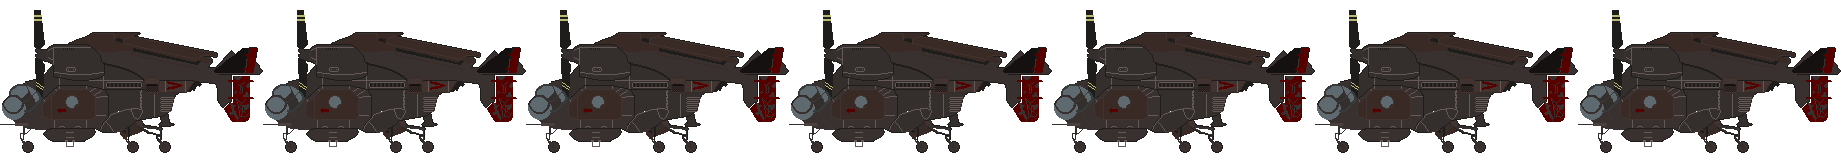
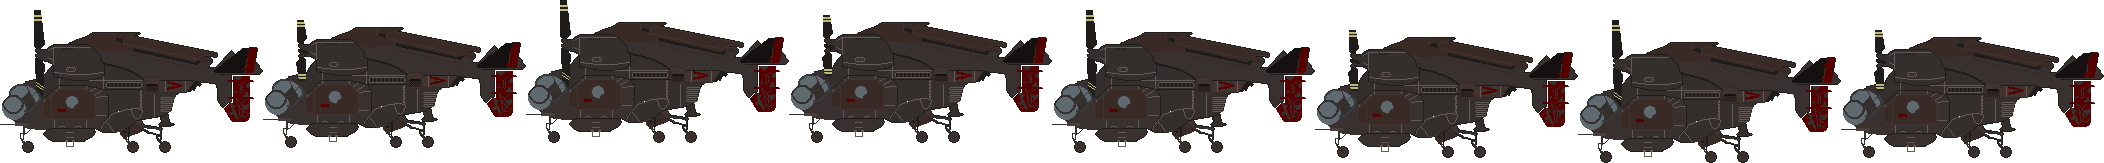
good progress pick up sunday

diff --git a/src/scenes/Play.js b/src/scenes/Play.js
@@ -5,6 +5,7 @@ class Play extends Phaser.Scene {
     preload() {
         this.load.spritesheet('miniNukeF', './assets/miniNuke.png', {frameWidth: 20, frameHeight: 43, startFrame: 0, endFrame: 3});
         this.load.image('miniNukeG', './assets/miniNukeGrounded.png');
+        this.load.spritesheet('vertibird', './assets/vertibird.png', {frameWidth: 263, frameHeight: 163, startFrame: 0, endFrame: 8});
         this.load.image('spaceship', './assets/spaceship.png');
         this.load.image('starfield', './assets/starfield.png');
         this.load.image('interceptor', './assets/interceptor.png');
@@ -22,6 +23,11 @@ class Play extends Phaser.Scene {
             frames: this.anims.generateFrameNumbers('miniNukeF', {start: 1, end: 3, first: 1}),
             frameRate: 10
         });
+        this.anims.create({
+            key: 'zoom',
+            frames: this.anims.generateFrameNumbers('vertibird', {start: 0, end: 8, first: 0}),
+            frameRate: 10
+        });
         this.anims.create ({
             key: 'explode',
             frames: this.anims.generateFrameNumbers('explosion', {start: 0, end: 9, first: 0}),
@@ -29,10 +35,10 @@ class Play extends Phaser.Scene {
         });
 
         this.miniNuke = new Rocket(this, game.config.width/2, game.config.height - borderUISize - borderPadding, 'miniNukeG').setOrigin(0.5,0);
-        this.ship01 = new Spaceship(this, game.config.width + borderUISize*6, borderUISize*4, 'spaceship', 0, 30, 1).setOrigin(0,0);
-        this.ship02 = new Spaceship(this, game.config.width + borderUISize*3, borderUISize*5 + borderPadding*2, 'spaceship', 0, 20, 1).setOrigin(0,0);
-        this.ship03 = new Spaceship(this, game.config.width, borderUISize*6 + borderPadding*4, 'spaceship', 0, 10, 1).setOrigin(0,0);
-        this.ship04 = new Spaceship(this, game.config.width, borderUISize*7 + borderPadding*5, 'interceptor', 0, 40, 2).setOrigin(0,0);
+        this.ship01 = new Spaceship(this, game.config.width + borderUISize*6, borderUISize*4, 'vertibird', 0, 30, 1).setOrigin(0,0);
+        this.ship02 = new Spaceship(this, game.config.width + borderUISize*3, borderUISize*5 + borderPadding*2, 'vertibird', 0, 20, 1).setOrigin(0,0);
+        this.ship03 = new Spaceship(this, game.config.width, borderUISize*6 + borderPadding*4, 'vertibird', 0, 10, 1).setOrigin(0,0);
+        this.ship04 = new Spaceship(this, game.config.width, borderUISize*7 + borderPadding*5, 'vertibird', 0, 40, 2).setOrigin(0,0);
         
         //key binds
         keyF = this.input.keyboard.addKey(Phaser.Input.Keyboard.KeyCodes.F);
@@ -46,7 +52,7 @@ class Play extends Phaser.Scene {
         this.p1Score = 0;
         //display score
         this.scoreLeft = this.add.text(borderUISize + borderPadding, borderUISize + borderPadding*2, this.p1Score, scoreConfig);
-        scoreConfig.fixedWidth = 0;
+        //scoreConfig.fixedWidth = 0;
         // Game Over flag
         this.gameOver = false;
         //60 sec play time clock
@@ -55,7 +61,7 @@ class Play extends Phaser.Scene {
             this.add.text(game.config.width/2, game.config.height/2 + 64, 'Press (R) to Restart', scoreConfig).setOrigin(0.5);
             this.gameOver = true;
         }, null, this);*/
-        this.time = this.add.text(game.config.width /2 , borderUISize + borderPadding*2,'', scoreConfig);
+        this.time = this.add.text(game.config.width - borderUISize - borderPadding - scoreConfig.fixedWidth, borderUISize + borderPadding*2,'', scoreConfig);
         this.startTime = Math.floor(this.sys.game.loop.time/1000)
         //white border
         this.add.rectangle(0, 0, game.config.width, borderUISize, 0xffffff).setOrigin(0,0);
@@ -84,6 +90,7 @@ class Play extends Phaser.Scene {
             this.currentTime = (Math.floor(this.sys.game.loop.time/1000) - this.startTime).toString();
             this.time.setText(`time : ${game.settings.gameTimer - this.currentTime } `);
             if( this.currentTime > game.settings.gameTimer){
+                scoreConfig.fixedWidth = 0;
                 this.add.text(game.config.width/2, game.config.height/2, 'GAME OVER', scoreConfig).setOrigin(0.5);
                 this.add.text(game.config.width/2, game.config.height/2 + 64, 'Press (R) to Restart', scoreConfig).setOrigin(0.5);
                 this.gameOver = true;
@@ -122,13 +129,13 @@ class Play extends Phaser.Scene {
 
     shipExplode(ship) {
         //hide ship
-        ship.alpha  = 0;
+        ship.fly.alpha = 0;
         // create explosion at ship location
         let boom = this.add.sprite(ship.x, ship.y, 'explosion').setOrigin(0,0);
         boom.anims.play('explode'); //play animation
         boom.on('animationcomplete', () => {
             ship.reset();
-            ship.alpha = 1;
+            ship.fly.alpha = 1;
             boom.destroy();
         });
         this.p1Score += ship.points;

diff --git a/src/prefabs/Rocket.js b/src/prefabs/Rocket.js
@@ -1,13 +1,21 @@
 class Rocket extends Phaser.GameObjects.Sprite {
     constructor(scene, x, y, texture, frame){
         super(scene, x, y, texture, frame);
+
+        this.setSize(15,30);
+        this.setDisplaySize(15,30);
         this.sfxRocket = scene.sound.add('sfx_rocket');
         this.isFiring = false;
         this.moveSpeed = 2;
         this.canFire = false;
         scene.add.existing(this);
         this.fly = this.scene.add.sprite(-100, -100, 'miniNukeF').setOrigin(0.5,0);
+        this.fly.setSize(15,30);
+        this.fly.setDisplaySize(15,30);
         this.fly.anims.play('fired');
+        scoreConfig.align = 'center';
+        this.fireUI = scene.add.text(game.config.width/2 - scoreConfig.fixedWidth / 2 , borderUISize + borderPadding*2,'FIRE', scoreConfig);
+        this.fireUI.alpha = 0;
     }
 
     update(pX, pIsDown) {
@@ -28,7 +36,12 @@ class Rocket extends Phaser.GameObjects.Sprite {
             }
             // if fired move up
             if(this.isFiring && this.y >= borderUISize * 3 + borderPadding) {
+                this.fireUI.alpha = 1;
                 this.y -= this.moveSpeed;
+                this.alpha = 0;
+                this.fly.alpha = 1;
+                this.fly.x = this.x;
+                this.fly.y = this.y;
             }
             // reset on miss
             if(this.y <= borderUISize * 3 + borderPadding) {
@@ -54,6 +67,7 @@ class Rocket extends Phaser.GameObjects.Sprite {
             }
             // if fired move up
             if(this.isFiring && this.y >= borderUISize * 3 + borderPadding) {
+                this.fireUI.alpha = 1;
                 this.y -= this.moveSpeed;
                 this.alpha = 0;
                 this.fly.alpha = 1;
@@ -70,6 +84,7 @@ class Rocket extends Phaser.GameObjects.Sprite {
         this.fly.x = -100;
         this.fly.y = -100;
         this.alpha = 1;
+        this.fireUI.alpha = 0;
         this.isFiring = false;
         this.y = game.config.height - borderUISize - borderPadding;
         this.canFire = false;

diff --git a/src/main.js b/src/main.js
@@ -35,3 +35,23 @@ function MouseInTextBox(pointerX, pointerY, textBox){
         return(false);
     }
 }
+// 5-Point Tier
+// Track a high score that persists across scenes and display it in the UI (5)
+        // Implement the 'FIRE' UI text from the original game (5)
+// Add your own (copyright-free) background music to the Play scene (please be mindful of the volume) (5)
+// Implement the speed increase that happens after 30 seconds in the original game (5)
+// Randomize each spaceship's movement direction at the start of each play (5)
+// Create a new scrolling tile sprite for the background (5)
+// Allow the player to control the Rocket after it's fired (5)
+// 10-Point Tier
+// Create 4 new explosion sound effects and randomize which one plays on impact (10)
+        // Display the time remaining (in seconds) on the screen (10)
+        // Using a texture atlas, create a new animated sprite for the Spaceship enemies (10)
+// Create a new title screen (e.g., new artwork, typography, layout) (10)
+// Implement parallax scrolling for the background (10)
+// 15-Point Tier
+        // Create a new enemy Spaceship type (w/ new artwork) that's smaller, moves faster, and is worth more points (15)
+// Implement an alternating two-player mode (15)
+        // Implement a new timing/scoring mechanism that adds time to the clock for successful hits (15)
+        // Implement mouse control for player movement and mouse click to fire (15)
+// Use Phaser's particle emitter to create a particle explosion when the rocket hits the spaceship (15)

diff --git a/src/prefabs/Spaceship.js b/src/prefabs/Spaceship.js
@@ -1,13 +1,22 @@
 class Spaceship extends Phaser.GameObjects.Sprite {
     constructor(scene, x, y, texture, frame, pointValue, speedMulti){
         super(scene, x, y, texture, frame);
-
+        this.setSize(80,50);
+        this.setDisplaySize(80,50);
         scene.add.existing(this);
         this.points = pointValue;
         this.moveSpeed = speedMulti * game.settings.spaceshipSpeed;
+        this.fly = this.scene.add.sprite(this.x, this.y , 'vertibird').setOrigin(0,0);
+        this.fly.setSize(80,50);
+        this.fly.setDisplaySize(80,50);
+        this.fly.anims.play('zoom');
+        this.alpha = 0;
     }
 
     update() {
+       this.fly.x = this.x;
+       this.fly.y = this.y;
+       this.fly.on('animationcomplete', () => {this.fly.anims.play('zoom');});
        this.x -= this.moveSpeed;
        if(this.x <= 0 - this.width) {
             this.reset();
@@ -16,5 +25,6 @@ class Spaceship extends Phaser.GameObjects.Sprite {
 
     reset() {
         this.x = game.config.width;
+        this.fly.x = game.config.width;
     }
 }
